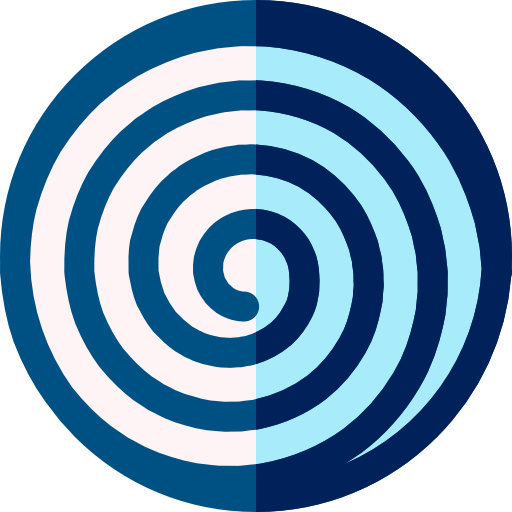
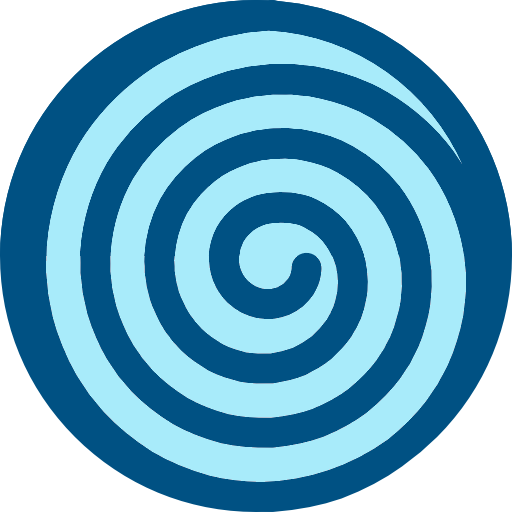
animation for portal

diff --git a/src/maps/Map.java b/src/maps/Map.java
@@ -2,7 +2,10 @@ package maps;
 
 import graphics.TileShape;
 
+import javax.swing.*;
 import java.awt.*;
+import java.awt.event.ActionEvent;
+import java.awt.event.ActionListener;
 import java.util.ArrayList;
 import java.util.Random;
 
@@ -22,14 +25,21 @@ public class Map {
     private TileShape bportal;
     private int tileSize = 60;
 
+    private String[] portals = {"portal.png", "portal1.png", "portal2.png", "portal3.png"};
+
     private String houseGround = "floor.png";
     private String houseObs = "brick.png";
 
     private String forestGround = "grass.jpg";
     private String forestObs = "tree.png";
 
+    private int orientation;
+
+    private Timer rotate_timer;
+
 
     public Map(int num_obs, Boolean isForest) {
+        orientation = 0;
         String ground;
         String obs;
         if (isForest) {
@@ -63,16 +73,33 @@ public class Map {
                 k--;
             }
         }
+
+        this.rotate_timer = new Timer(100, (new ActionListener() {
+            @Override
+            public void actionPerformed(ActionEvent e) {
+                System.out.println(orientation);
+                orientation++;
+            }
+        }));
+        rotate_timer.start();
     }
 
     public void addForwardsPortal() {
-        TileShape portal = new TileShape((xTiles - 2) * tileSize, yTiles / 2 * tileSize, tileSize, tileSize, "portal.png", true);
+        TileShape portal = new TileShape((xTiles - 2) * tileSize, yTiles / 2 * tileSize, tileSize, tileSize, portals[orientation % 4], true);
         fportal = portal;
     }
 
     public void addBackwardsPortal() {
-        TileShape portal = new TileShape(tileSize, yTiles / 2 * tileSize, tileSize, tileSize, "portal.png", true);
+        TileShape portal = new TileShape(tileSize, yTiles / 2 * tileSize, tileSize, tileSize, portals[orientation % 4], true);
         bportal = portal;
+    }
+
+    public void rotateForwards(){
+        fportal.changeImage(portals[orientation % 4]);
+    }
+
+    public void rotateBackwards(){
+        bportal.changeImage(portals[orientation % 4]);
     }
 
     public void paint(Graphics g) {
@@ -85,9 +112,11 @@ public class Map {
             obs.renderShape(g);
         }
         if (fportal != null){
+            rotateForwards();
             fportal.renderShape(g);
         }
         if (bportal != null){
+            rotateBackwards();
             bportal.renderShape(g);
         }
 
